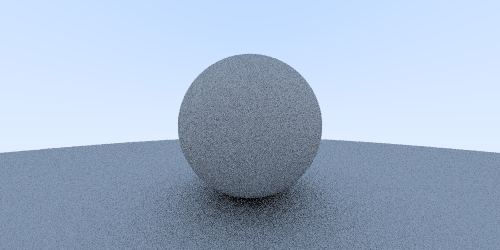
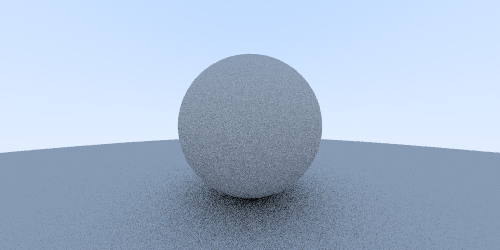
Combined ray and sphere code with vec3 and geometry

Changed region(s): [[0.21, 0.224, 0.81, 1.0], [0.72, 0.756, 0.75, 0.784], [0.18, 0.952, 0.21, 0.98]]

diff --git a/src/geometry.rs b/src/geometry.rs
@@ -1,5 +1,4 @@
-use vec3::Vec3;
-use ray::Ray;
+use vec3::{Vec3, Ray};
 
 #[derive(Debug, Clone, Copy)]
 pub struct Hit {
@@ -28,5 +27,58 @@ impl Hitable for Vec<Box<Hitable>> {
             }
         }
         temp_rec
+    }
+}
+
+pub struct Sphere {
+    pub center: Vec3,
+    pub radius: f32,
+}
+
+impl Sphere {
+    pub fn new(center: Vec3, radius: f32) -> Self {
+        Sphere {
+            center: center,
+            radius: radius,
+        }
+    }
+}
+
+impl Hitable for Sphere {
+    fn hit(&self, ray: Ray, t_min: f32, t_max: f32) -> Option<Hit> {
+        let oc = ray.origin() - self.center;
+        let a = ray.direction().dot(ray.direction());
+        let b = 2.0 * oc.dot(ray.direction());
+        let c = oc.dot(oc) - self.radius * self.radius;
+        let discriminant = b * b - 4.0 * a * c;
+        if discriminant > 0.0 {
+            let temp1 = (-b - discriminant.sqrt()) / (2.0 * a);
+            let temp2 = (-b + discriminant.sqrt()) / (2.0 * a);
+            if temp1 < t_max && temp1 > t_min {
+                let t = temp1;
+                let p = ray.point_at_parameter(t);
+                let n = (p - self.center).normal();
+                let h = Hit {
+                    t: t,
+                    p: p,
+                    normal: n,
+                };
+                Some(h)
+            } else if temp2 < t_max && temp2 > t_min {
+                let t = temp2;
+                let p = ray.point_at_parameter(t);
+                let n = (p - self.center).normal();
+                let h = Hit {
+                    t: t,
+                    p: p,
+                    normal: n,
+                };
+                Some(h)
+            } else {
+                None
+            }
+        } else {
+            None
+        }
     }
 }

diff --git a/src/main.rs b/src/main.rs
@@ -3,8 +3,6 @@ extern crate rand;
 
 mod camera;
 mod geometry;
-mod ray;
-mod sphere;
 mod vec3;
 
 use std::f32;
@@ -12,10 +10,8 @@ use std::fs::File;
 use std::path::Path;
 
 use camera::Camera;
-use geometry::{Hit, Hitable};
-use ray::Ray;
-use sphere::Sphere;
-use vec3::Vec3;
+use geometry::{Hit, Hitable, Sphere};
+use vec3::{Ray, Vec3};
 
 fn random_in_unit_sphere() -> Vec3 {
     let mut p = Vec3::new(0.0, 0.0, 0.0);
@@ -33,7 +29,7 @@ fn random_in_unit_sphere() -> Vec3 {
 }
 
 fn color(ray: Ray, world: &Hitable) -> Vec3 {
-    match world.hit(ray, 0.0, f32::MAX) {
+    match world.hit(ray, 0.0001, f32::MAX) {
         Some(hit) => {
             let target = hit.normal + random_in_unit_sphere();
             color(Ray::new(hit.p, target), world) * 0.5

diff --git a/src/vec3.rs b/src/vec3.rs
@@ -79,3 +79,26 @@ impl Div<f32> for Vec3 {
         self * (1.0 / m)
     }
 }
+
+#[derive(Debug, Clone, Copy)]
+pub struct Ray {
+    o: Vec3,
+    d: Vec3,
+}
+
+impl Ray {
+    pub fn new(o: Vec3, d: Vec3) -> Self {
+        Ray { o: o, d: d }
+    }
+
+    pub fn origin(&self) -> Vec3 {
+        self.o
+    }
+    pub fn direction(&self) -> Vec3 {
+        self.d
+    }
+
+    pub fn point_at_parameter(&self, t: f32) -> Vec3 {
+        self.o + self.d * t
+    }
+}

diff --git a/src/camera.rs b/src/camera.rs
@@ -1,5 +1,4 @@
-use ray::Ray;
-use vec3::Vec3;
+use vec3::{Ray, Vec3};
 
 pub struct Camera {
     pub origin: Vec3,
